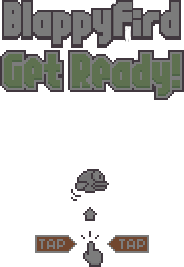
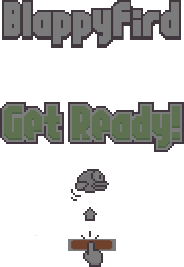
added splash screen

diff --git a/Blappy Fird.py b/Blappy Fird.py
@@ -34,11 +34,13 @@ def check_collision(pipes):
 		if bird_rect.colliderect(pipe):
 			return False
 
+
 	if bird_rect.top <= -15 or bird_rect.bottom >= 450:
 		return False
 
 	return True
-		
+
+
 def rotate_bird(bird):
 	new_bird = pygame.transform.rotozoom(bird, -bird_movement * 3, 1)
 	return new_bird
@@ -49,16 +51,16 @@ def bird_animation():
 	return new_bird, new_bird_rect
 
 def score_display(game_state):
-	if game_state == 'main_game':
+	if game_active:
 		score_surface = game_font.render(str(int(score)), True, (255, 255, 255))
 		score_rect = score_surface.get_rect(center = (288/2, 50))
 		screen.blit(score_surface, score_rect)
-	if game_state == 'game_over':
+	if game_active == False:
 		score_surface = game_font.render(f'Score: {int(score)}', True, (255, 255, 255))
 		score_rect = score_surface.get_rect(center = (288/2, 50))
 		screen.blit(score_surface, score_rect)
 
-		high_score_surface = game_font.render(f'High score: {int(high_score)}', True, (255, 255, 255))
+		high_score_surface = game_font.render(f'High scr.: {int(high_score)}', True, (255, 255, 255))
 		high_score_rect = high_score_surface.get_rect(center = (288/2, 512/5))
 		screen.blit(high_score_surface, high_score_rect)
 
@@ -67,36 +69,37 @@ def update_score(score, high_score):
 		high_score = score
 	return high_score
 
-def GameOver_display(game_state):
-	if game_state == 'game_over':
-		gameover_surface = game_font.render('Game Over!', True, (255, 255, 255))
-		gameover_rect = gameover_surface.get_rect(center = (288/2, 512/2))
-		screen.blit(gameover_surface, gameover_rect)
-
 def PressButton_display(game_state):
-	if game_state == 'game_over':
+	if game_active:
 		gameover_surface = space_font.render('Press [Space] to restart!', True, (255, 255, 255))
-		gameover_rect = gameover_surface.get_rect(center = (288/2, 420))
-		screen.blit(gameover_surface, gameover_rect)
+		gameover_rect = gameover_surface.get_rect(center = (288/4, 420))
+
+		screen.blit(gameover_surface, gameover_rect,)
+		screen.blit(splash_surface, splash_rect)
+
+def Start_screen(game_state):
+	if game_active == False:
+		screen.blit(splash_surface, splash_rect)
+
+
 
 pygame.init()
 pygame.display.set_caption('Blappy Fird')
 screen = pygame.display.set_mode((288,512))
 clock = pygame.time.Clock()
-game_font = pygame.font.Font('04B_19__.ttf' ,40)
-space_font = pygame.font.Font('04B_19__.ttf',21)
+game_font = pygame.font.Font('assets/04B_19__.ttf' ,40)
+space_font = pygame.font.Font('assets/04B_19__.ttf',21)
 
 # game vars #
 bird_initpos = 288/3,256
 gravity = 0.50
 bird_movement = 0
-game_active = True
+game_active = False
 score = 0
 high_score = 0
 
-
 # bg stuff #
-bg_surface = pygame.image.load('assets/background-day.png').convert()
+bg_surface = pygame.image.load('assets/background-night.png').convert()
 bg_xpos = 0
 
 # floor stuff #
@@ -104,9 +107,9 @@ floor_surface = pygame.image.load('assets/base.png').convert()
 floor_xpos = 0
 
 # bird stuff #
-bird_downflap = pygame.image.load('assets/bluebird-downflap.png').convert_alpha()
-bird_midflap = pygame.image.load('assets/bluebird-midflap.png').convert_alpha()
-bird_upflap = pygame.image.load('assets/bluebird-upflap.png').convert_alpha()
+bird_downflap = pygame.image.load('assets/redbird-downflap.png').convert_alpha()
+bird_midflap = pygame.image.load('assets/redbird-midflap.png').convert_alpha()
+bird_upflap = pygame.image.load('assets/redbird-upflap.png').convert_alpha()
 bird_frames = [bird_downflap, bird_midflap, bird_upflap]	
 bird_index = 0
 
@@ -120,10 +123,13 @@ favicon = pygame.image.load('favicon.ico').convert()
 pygame.display.set_icon(favicon)
 
 # pipe stuff #
-pipe_surface = pygame.image.load('assets/pipe-green.png').convert()
+pipe_surface = pygame.image.load('assets/pipe-red.png').convert()
 pipe_list = []
 SPAWNPIPE = pygame.USEREVENT
 pygame.time.set_timer(SPAWNPIPE, 2000)
+
+splash_surface = pygame.image.load('assets/message.png').convert_alpha()
+splash_rect = splash_surface.get_rect(center=(288/2, 512/1.7))
 
 # game loop #
 while True:
@@ -159,7 +165,8 @@ while True:
 	if bg_xpos <= -288:
 		bg_xpos = 0
 
-	if game_active:
+
+	if game_active :
 		# move bird #
 		bird_movement += gravity
 		rotated_bird = rotate_bird(bird_surface)
@@ -178,12 +185,11 @@ while True:
 		score += 0.05
 		score_display('main_game')
 	else:
-		high_score = update_score(score, high_score)
-		score_display('game_over')
-		GameOver_display('game_over')
-		PressButton_display('game_over')
-
-
+		if game_active == False:
+			high_score = update_score(score, high_score)
+			score_display('game_over')
+			PressButton_display('game_over')
+			Start_screen(False)
 
 	# floor animation #
 	draw_floor()
